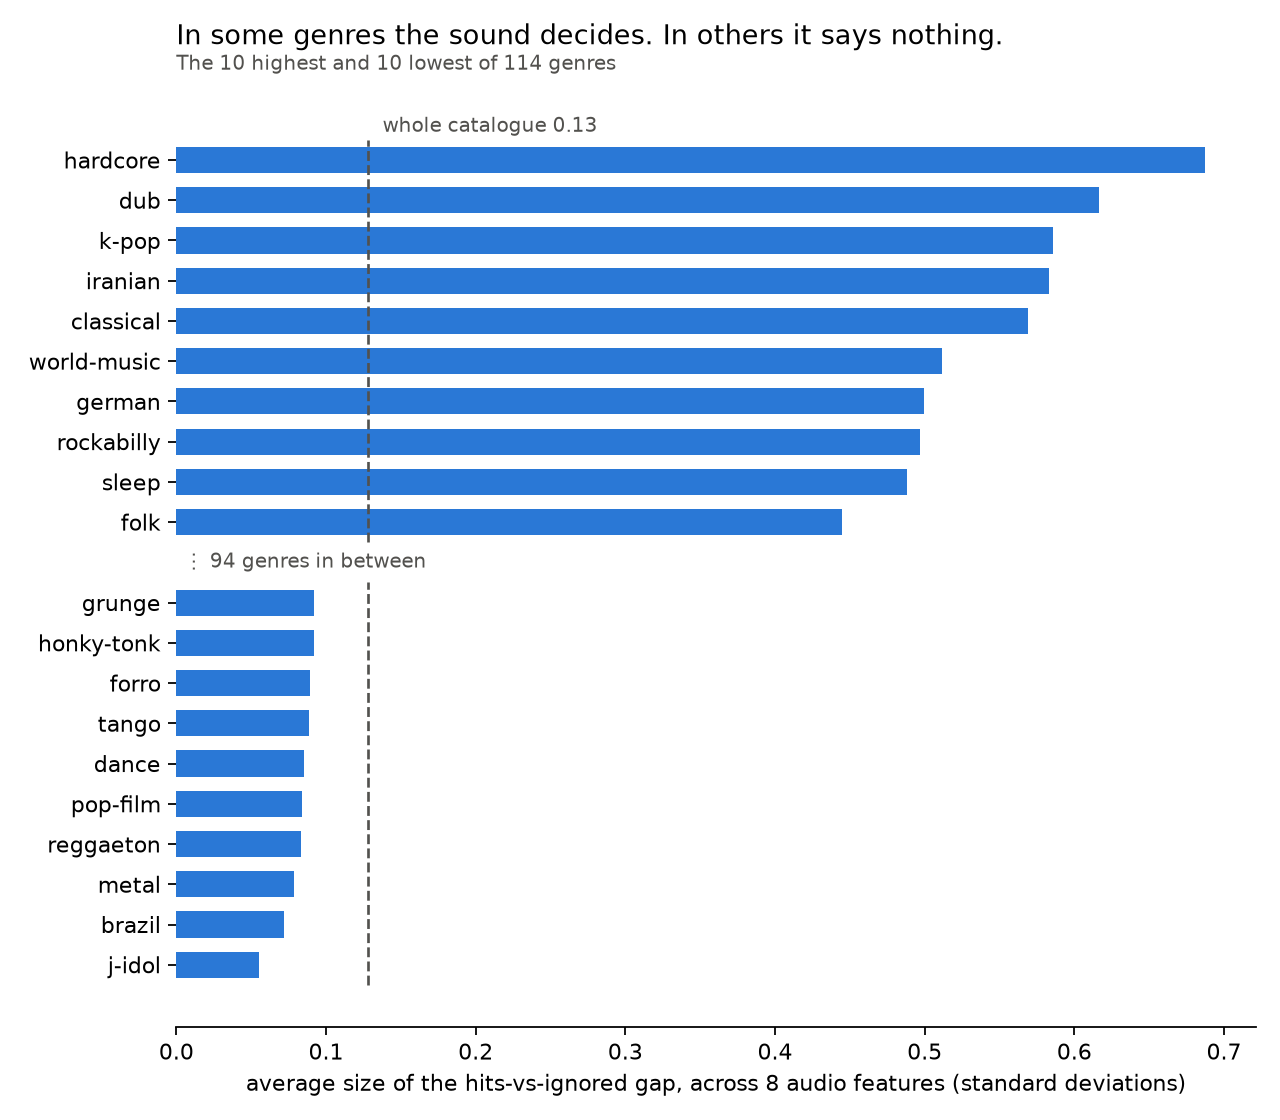
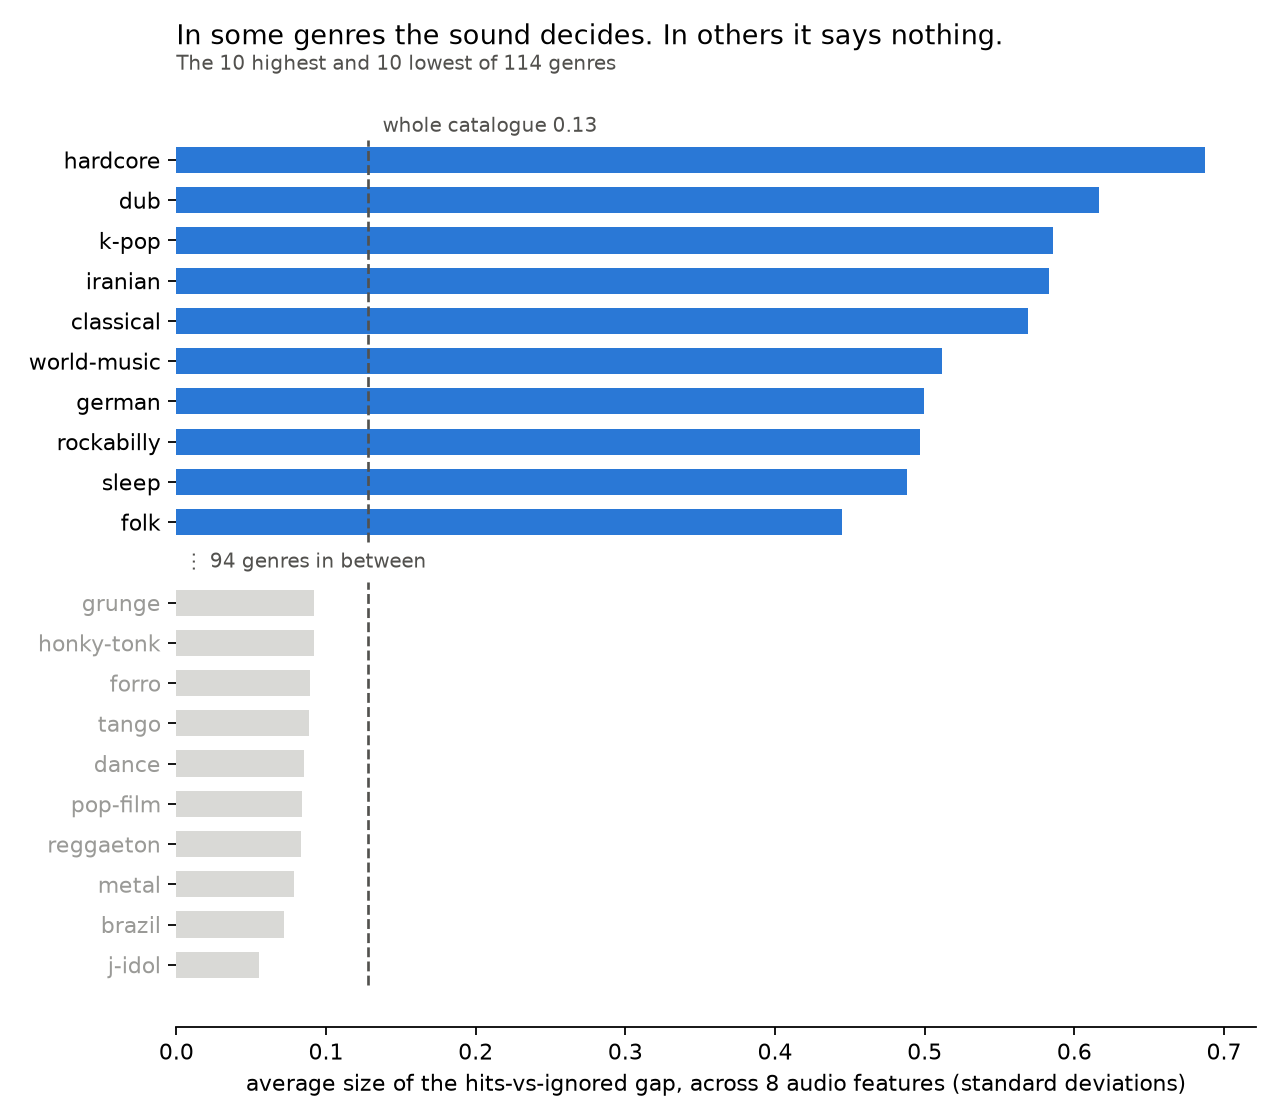
style(chart3): grey the low-gap genres so the top ten carry the message

Changed region(s): [[0.0312, 0.5, 0.25, 0.875]]

diff --git a/chart3.py b/chart3.py
@@ -18,9 +18,13 @@ low_slots = list(range(0, 10))
 high_slots = list(range(11, 21))
 
 fig, ax = plt.subplots(figsize=(8, 7))
-ax.barh(low_slots, low.to_numpy(), height=0.65, color="#2a78d6")
+ax.barh(low_slots, low.to_numpy(), height=0.65, color="#d9d9d6")
 ax.barh(high_slots, high.to_numpy(), height=0.65, color="#2a78d6")
 ax.set_yticks(low_slots + high_slots, list(low.index) + list(high.index))
+
+for label in ax.get_yticklabels()[:10]:
+    label.set_color("#9a9a97")
+
 ax.text(0.005, 10, "⋮ 94 genres in between", va="center", fontsize=9, color="#52514e")
 
 ax.vlines(catalogue, -0.5, 9.5, color="#52514e", linestyle="--", linewidth=1.2)
